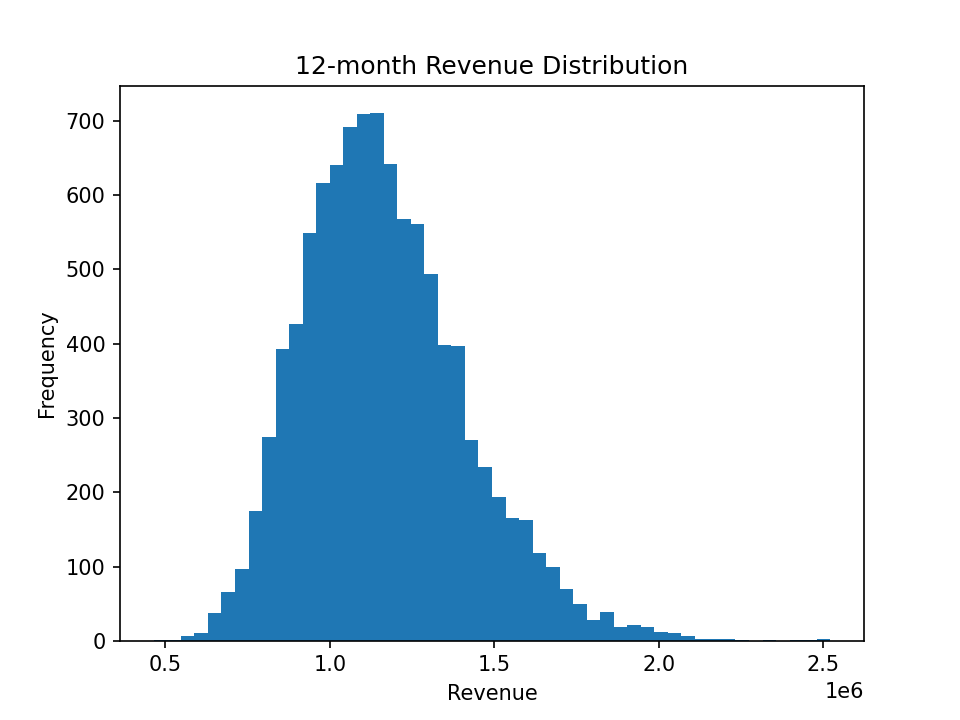
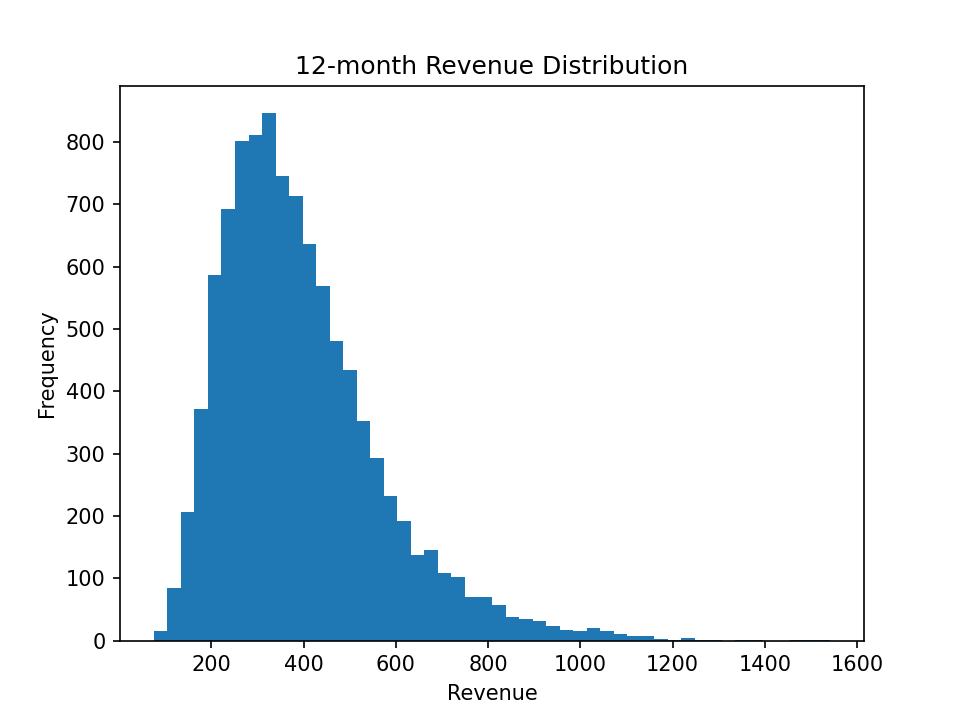
go

diff --git a/jobs/jobs.py b/jobs/jobs.py
@@ -1,0 +1,25 @@
+import numpy as np
+import matplotlib.pyplot as plt
+
+# Parameters
+N = 10000  # baseline number of jobs
+X_values = np.linspace(0, 100, 500)  # X varies from 0% to 100% increase in jobs
+
+# Fixed Y percentages for different curves (in %)
+Y_values = [20, 40, 60, 80, 100]
+
+plt.figure(figsize=(10, 6))
+
+for Y in Y_values:
+    # Compute the number of human jobs at timestamp 2 for each value of X.
+    # Formula: new_human_jobs = N * (1 + X/100) * (Y/100)
+    human_jobs = N * (1 + X_values/100) * (Y/100)
+    plt.plot(X_values, human_jobs, label=f'Y = {Y}%')
+
+plt.xlabel('X (%) - Percentage Increase in Total Jobs Due to AI')
+plt.ylabel('Number of Human Jobs')
+plt.title('Number of Human Jobs After AI Creation\nN=10,000, varying X and fixed values of Y')
+plt.legend()
+plt.grid(True)
+plt.tight_layout()
+plt.show()

diff --git a/montecarlo-trees/montecarlo.py b/montecarlo-trees/montecarlo.py
@@ -3,7 +3,7 @@ import sys, yaml, json, pathlib, numpy as np, pandas as pd, matplotlib.pyplot as
 
 runs      = int(sys.argv[sys.argv.index('--runs') + 1])
 params    = yaml.safe_load(open(sys.argv[-1]))
-months    = 12
+months    = 1
 
 # 1. Correlated shocks ---------------------------------------------------------
 mu   = np.array(params['mu'])               # e.g. [0, 0] for demand & price

diff --git a/jobs/README.md b/jobs/README.md
@@ -1,0 +1,68 @@
+Perfect — you’re asking:
+
+> If we start with **N human jobs**, and then AI:
+
+* **automates (100 – Y)%** of those jobs (so only **Y% remain** for humans),
+* **creates X% more new jobs** in total,
+
+**how many human jobs remain** at timestamp 2? And how does that compare to the original N?
+
+---
+
+### Variables:
+
+* `N` = original number of jobs (all human)
+* `Y` = % of jobs that still require a human (e.g. 60 means 60% still need humans)
+* `X` = % increase in total jobs due to AI (e.g. 20 means 20% more total jobs)
+
+---
+
+### Step-by-step:
+
+1. **Total jobs after AI**:
+
+   $$
+   N_{\text{after}} = N \times \left(1 + \frac{X}{100}\right)
+   $$
+
+2. **Human jobs after AI**:
+
+   $$
+   H_{\text{after}} = N_{\text{after}} \times \frac{Y}{100}
+   = N \times \left(1 + \frac{X}{100}\right) \times \frac{Y}{100}
+   $$
+
+3. **Ratio of human jobs before vs after**:
+
+   $$
+   \text{Ratio} = \frac{H_{\text{after}}}{N}
+   = \left(1 + \frac{X}{100}\right) \times \frac{Y}{100}
+   $$
+
+---
+
+### Example:
+
+Suppose:
+
+* `N = 100`
+* `X = 20` (20% more jobs)
+* `Y = 50` (only 50% of jobs still need humans)
+
+Then:
+
+* Total jobs after AI: `100 × 1.2 = 120`
+* Human jobs after AI: `120 × 0.5 = 60`
+* Compared to original: `60 / 100 = 0.6` → **40% reduction** in human jobs
+
+---
+
+### Summary Formula:
+
+$$
+\boxed{
+\text{New human jobs} = N \times \left(1 + \frac{X}{100}\right) \times \frac{Y}{100}
+}
+$$
+
+You can plug in your values to get the exact number or percentage change. Let me know if you'd like a calculator function or plot for this.
